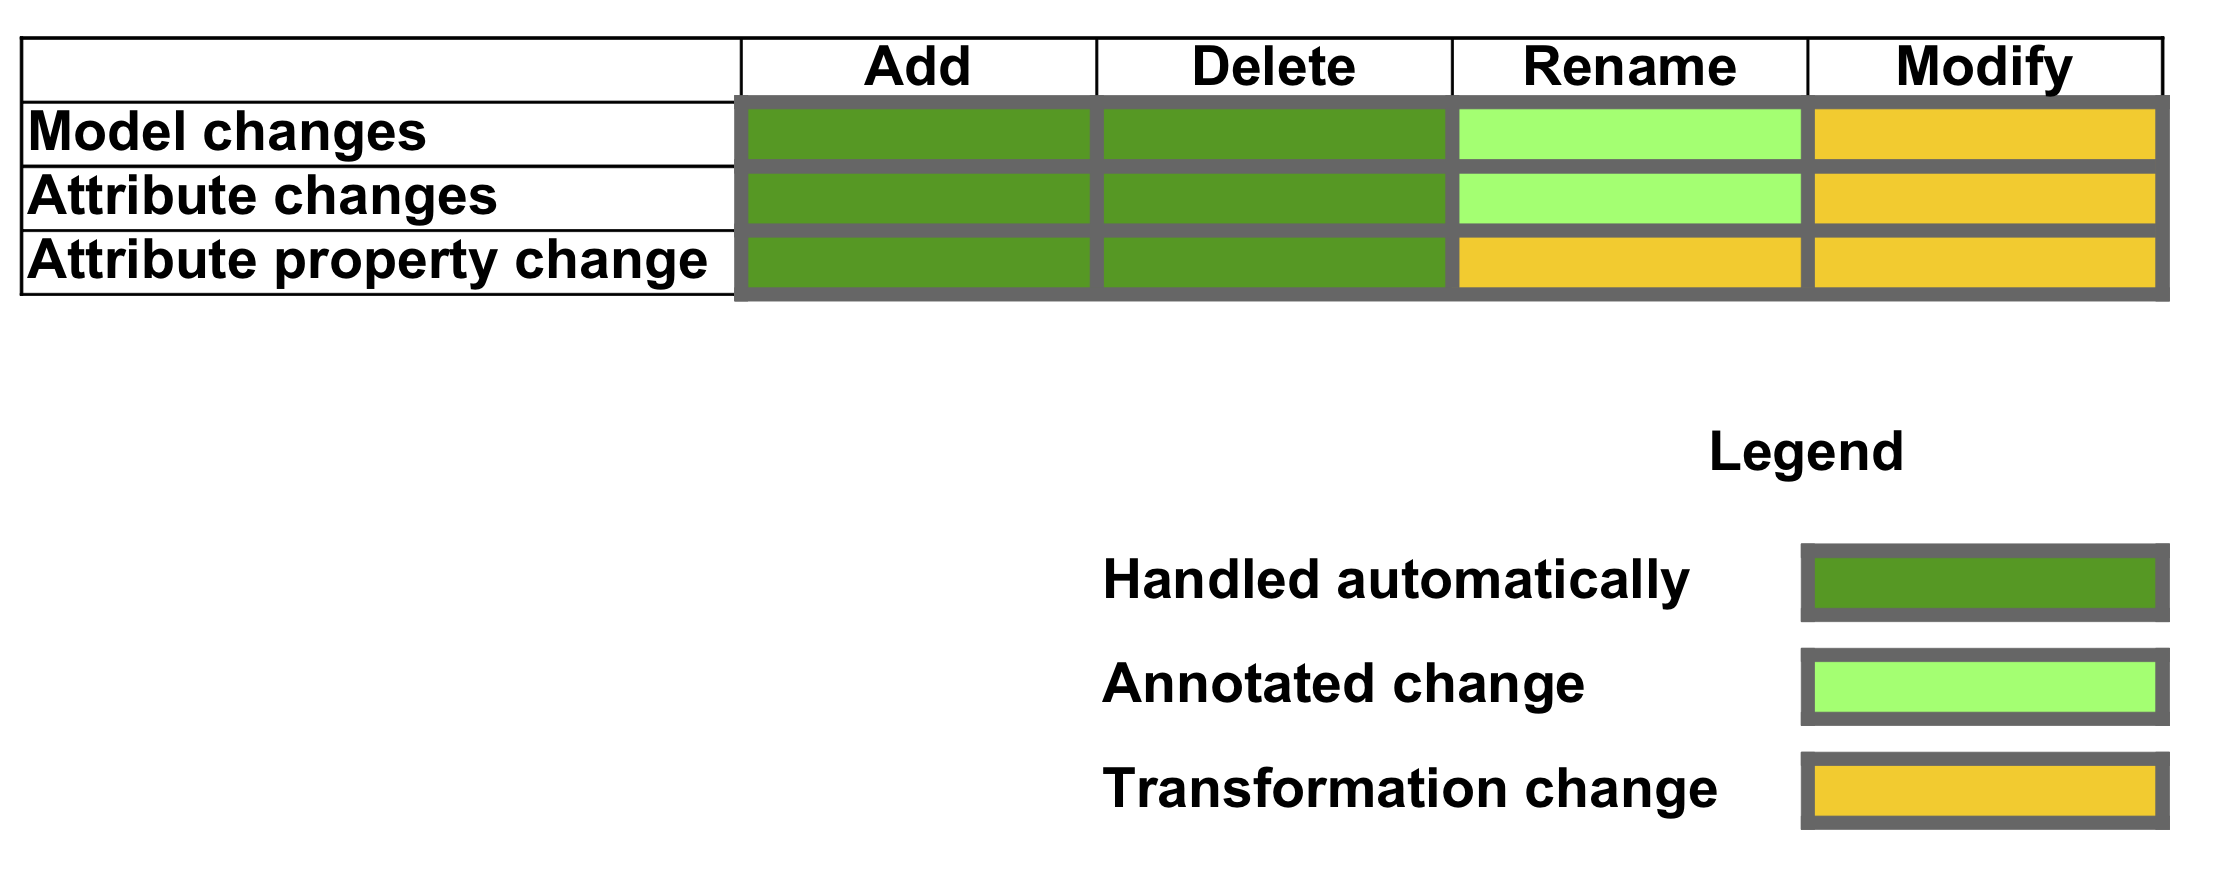
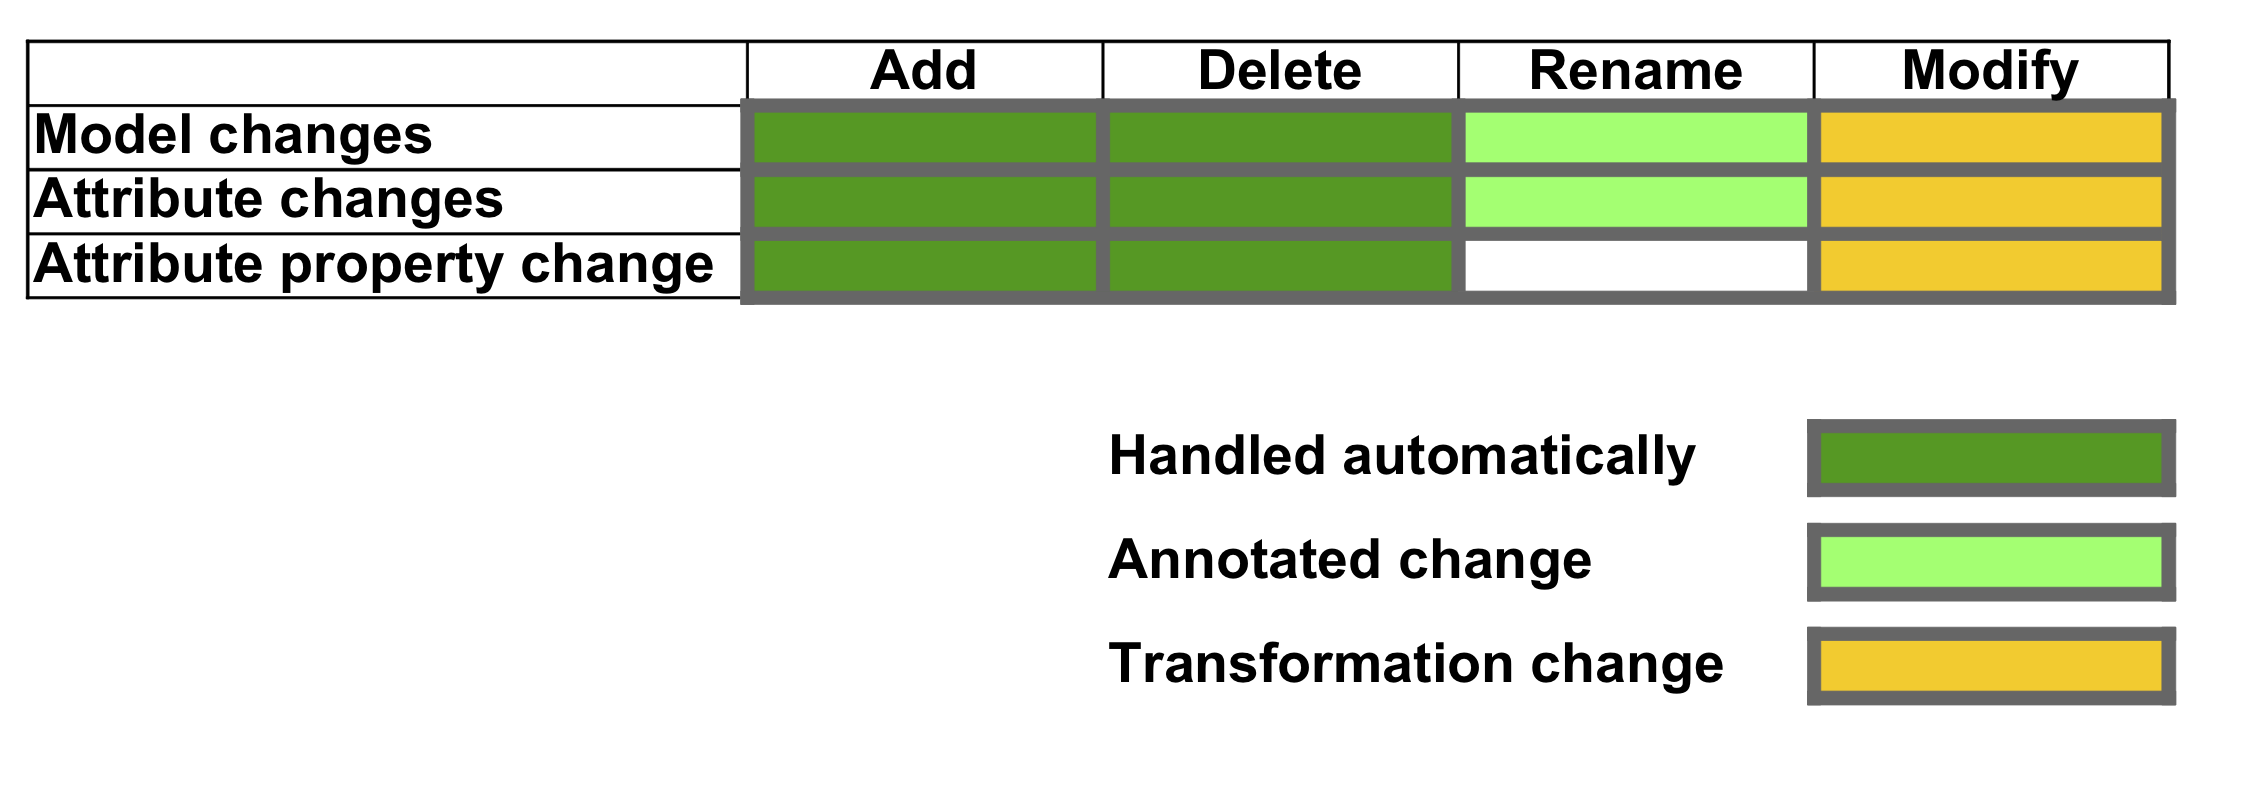
update Types of schema changes figure

Changed region(s): [[0.0, 0.0303, 0.991, 0.3939], [0.4645, 0.4848, 0.991, 0.9697], [0.4645, 0.5455, 0.7433, 0.6061]]

diff --git a/docs/migration.rst b/docs/migration.rst
@@ -76,6 +76,9 @@ which are also described below.
   :alt: Types of schema changes
 
 Figure X. Types of schema changes.
+Additions and deletions to a schema are handled automatically by migration.
+Renaming *Model*s or attributes must be annotated in a Schema changes file.
+Modifications must be handled in a Python transformations module.
 
 This code contains an example *existing* schema:
 
